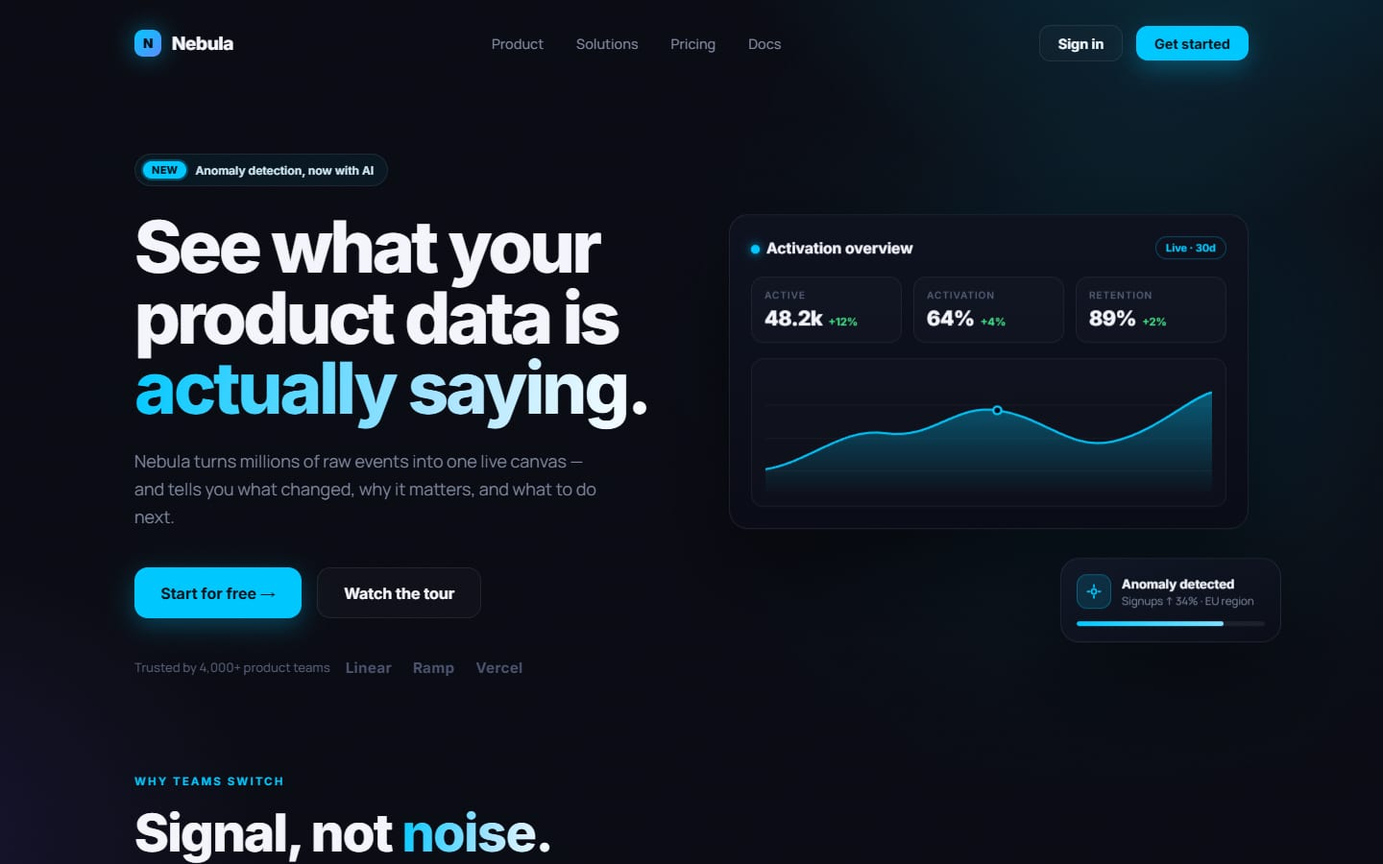
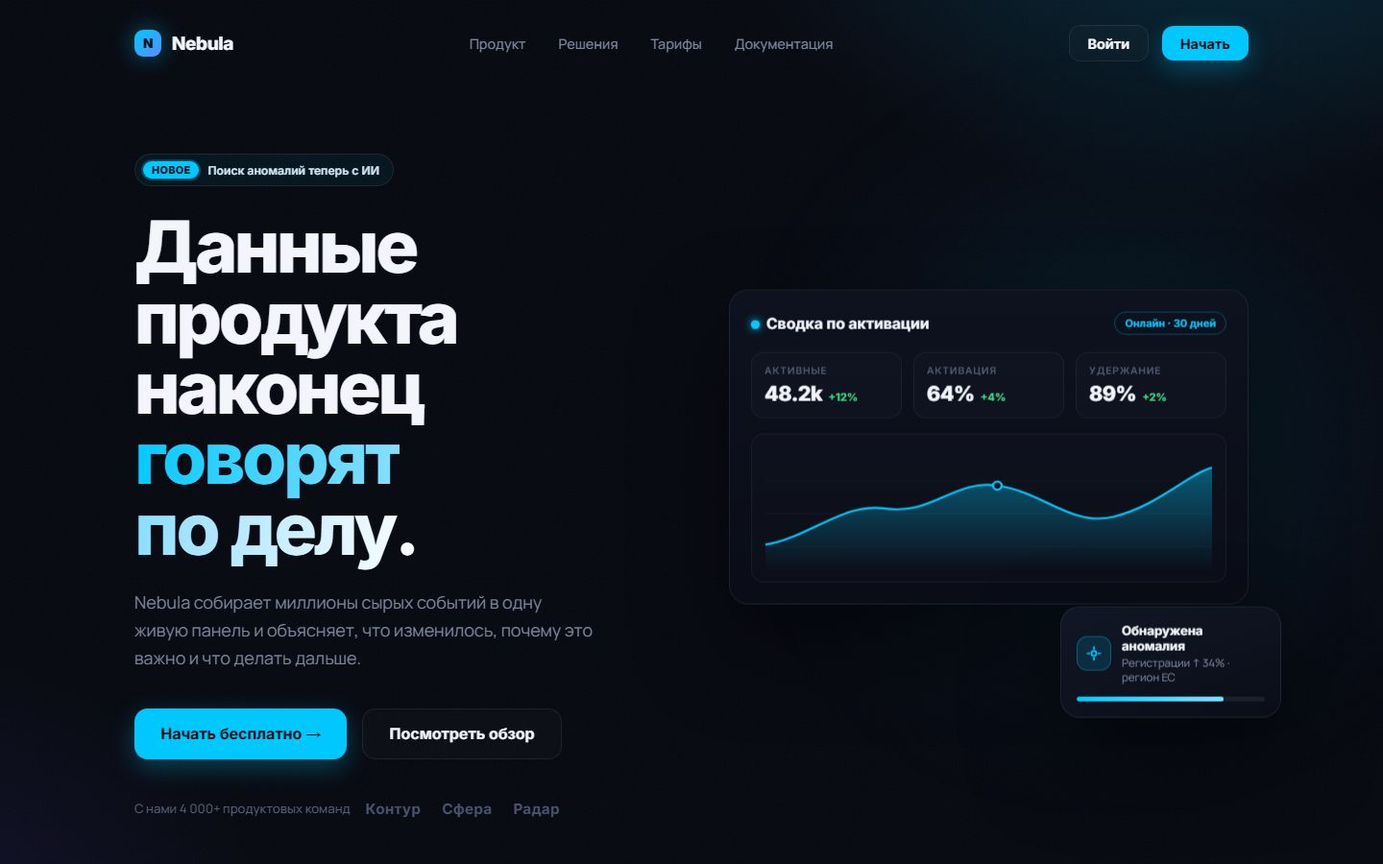
Витрина пересобрана: 17 работ, порядок «сначала реальный бизнес»
Серии «ходовые ниши» на витрине не было вообще. Добавлены Октан, Кедр, Фактура,
Верста, Remont.Krd, Полярис, Expense Flow и UI Motion; убран FilmGovernment —
TMDB режется в РФ по DNS, и клиент, кликнув по карточке, видел ошибку загрузки.

Порядок: локальный бизнес (7) → магазины и продукты (4) → флагманы и приложения (6).
Первый экран показывает семь разных отраслей вместо трёх тёмных абстрактных лендингов.

В стилях висели мёртвые классы превью от прежней версии витрины, а классы текущей
разметки не были описаны нигде: подложка теперь строится из акцента карточки.

Аудит LAUNCH-AUDIT: robots.txt, sitemap.xml, llms.txt, canonical и JSON-LD

По чеклисту эти пункты не были закрыты ни в одном проекте, кроме двух.
robots.txt осознанно пускает AI-краулеров (GPTBot, ClaudeBot, PerplexityBot,
OAI-SearchBot, Google-Extended) — цель попадать в ответы AI-поиска.

diff --git a/index.html b/index.html
@@ -28,6 +28,17 @@
   <link rel="stylesheet" href="css/style.css?v=fix-hover-1">
   <script src="js/main.js?v=fix-hover-1" defer></script>
   <title>Georgy | Frontend Developer Portfolio</title>
+<script type="application/ld+json">
+{
+  "@context": "https://schema.org",
+  "@type": "Person",
+  "name": "Georgy_Tech",
+  "description": "Портфолио фронтенд-разработчика: лендинги, многостраничные сайты, интернет-магазины и веб-приложения.",
+  "url": "https://georgy-itech.github.io/site-portfolio/",
+  "inLanguage": "ru-RU",
+  "jobTitle": "Frontend-разработчик"
+}
+</script>
 </head>
 
 <body>
@@ -96,7 +107,7 @@
 
             <ul class="hero__metrics" aria-label="Ключевые показатели">
               <li class="hero__metric">
-                <span class="hero__metric-value">14+</span>
+                <span class="hero__metric-value">17</span>
                 <span class="hero__metric-label">проектов в портфолио</span>
               </li>
               <li class="hero__metric">
@@ -222,9 +233,119 @@
         <p class="works__label">My works</p>
         <h2 class="works__title">Проекты, где дизайн и разработка работают вместе</h2>
         <div class="works__grid">
+          <a class="works__card" href="https://georgy-itech.github.io/oktan-auto/" target="_blank" rel="noopener noreferrer" style="--card-accent: #e5484d">
+            <div class="works__preview works__preview--oktan">
+              <img class="works__preview-img" src="images/works/oktan.jpg" width="1440" height="900" loading="lazy" decoding="async" alt="Октан — лендинг автосервиса">
+            </div>
+            <div class="works__card-content">
+              <h3 class="works__card-title">Октан</h3>
+              <p class="works__card-text">Лендинг автосервиса: калькулятор работ по марке и типу ремонта, блок сравнения «как обычно / как у нас», гарантийный талон и таймлайн приёмки.</p>
+              <span class="works__stack">HTML · CSS · Vanilla JS</span>
+            </div>
+          </a>
+          <a class="works__card" href="https://georgy-itech.github.io/kedr-dom/" target="_blank" rel="noopener noreferrer" style="--card-accent: #3f7d5c">
+            <div class="works__preview works__preview--kedr">
+              <img class="works__preview-img" src="images/works/kedr.jpg" width="1440" height="900" loading="lazy" decoding="async" alt="Кедр — строительство домов под ключ">
+            </div>
+            <div class="works__card-content">
+              <h3 class="works__card-title">Кедр</h3>
+              <p class="works__card-text">Строительство домов под ключ: каталог проектов с фильтрами, смета с разбивкой по разделам, ипотечный расчёт и график траншей оплаты.</p>
+              <span class="works__stack">HTML · CSS · Vanilla JS</span>
+            </div>
+          </a>
+          <a class="works__card" href="https://georgy-itech.github.io/faktura-kuhni/" target="_blank" rel="noopener noreferrer" style="--card-accent: #8b3a4a">
+            <div class="works__preview works__preview--faktura">
+              <img class="works__preview-img" src="images/works/faktura.jpg" width="1440" height="900" loading="lazy" decoding="async" alt="Фактура — кухни на заказ">
+            </div>
+            <div class="works__card-content">
+              <h3 class="works__card-title">Фактура</h3>
+              <p class="works__card-text">Кухни на заказ: многошаговый квиз с вилкой цены и возвратом к прошлым шагам, конфигуратор материалов со свотчами, шкала производства на 30 дней.</p>
+              <span class="works__stack">HTML · CSS · Vanilla JS</span>
+            </div>
+          </a>
+          <a class="works__card" href="https://georgy-itech.github.io/versta-cargo/" target="_blank" rel="noopener noreferrer" style="--card-accent: #1d4ed8">
+            <div class="works__preview works__preview--versta">
+              <img class="works__preview-img" src="images/works/versta.jpg" width="1440" height="900" loading="lazy" decoding="async" alt="Верста — грузоперевозки">
+            </div>
+            <div class="works__card-content">
+              <h3 class="works__card-title">Верста</h3>
+              <p class="works__card-text">Грузоперевозки: расчёт по отраслевому правилу «вес или объём — что больше» с объяснением, отслеживание по накладной, парк машин и схема маршрута.</p>
+              <span class="works__stack">HTML · CSS · Vanilla JS</span>
+            </div>
+          </a>
+          <a class="works__card" href="https://georgy-itech.github.io/appartment-recover/" target="_blank" rel="noopener noreferrer" style="--card-accent: #d96c3e">
+            <div class="works__preview works__preview--remont">
+              <img class="works__preview-img" src="images/works/remont.jpg" width="1440" height="900" loading="lazy" decoding="async" alt="Remont.Krd — ремонт квартир под ключ">
+            </div>
+            <div class="works__card-content">
+              <h3 class="works__card-title">Remont.Krd</h3>
+              <p class="works__card-text">Ремонт квартир под ключ: расчёт стоимости по площади и типу отделки, галерея объектов и заявка со сметой за сутки.</p>
+              <span class="works__stack">HTML · CSS · Vanilla JS</span>
+            </div>
+          </a>
+          <a class="works__card" href="https://georgy-itech.github.io/smilio-landing/" target="_blank" rel="noopener noreferrer" style="--card-accent: #4f9b8e">
+            <div class="works__preview works__preview--smilio">
+              <img class="works__preview-img" src="images/works/smilio.jpg" width="1440" height="900" loading="lazy" decoding="async" alt="Smilio — сайт стоматологии под ключ">
+            </div>
+            <div class="works__card-content">
+              <h3 class="works__card-title">Smilio</h3>
+              <p class="works__card-text">Сайт стоматологии под ключ: 4 страницы, форма записи с валидацией, кастомные UI-компоненты, карточки врачей и услуг.</p>
+              <span class="works__stack">HTML · CSS · Vanilla JS · Multi-page</span>
+            </div>
+          </a>
+          <a class="works__card" href="https://georgy-itech.github.io/fitness-trainer-landing/" target="_blank" rel="noopener noreferrer" style="--card-accent: #0a7c60">
+            <div class="works__preview works__preview--fitshift">
+              <img class="works__preview-img" src="images/works/fitshift.jpg" width="1440" height="900" loading="lazy" decoding="async" alt="FITSHIFT — лендинг персонального тренера">
+            </div>
+            <div class="works__card-content">
+              <h3 class="works__card-title">FITSHIFT</h3>
+              <p class="works__card-text">Лендинг персонального тренера: слайдер «до/после» с перетаскиванием, тарифы, FAQ-аккордеон и запись на консультацию.</p>
+              <span class="works__stack">HTML · CSS · Vanilla JS</span>
+            </div>
+          </a>
+          <a class="works__card" href="https://krema-coffee.vercel.app/" target="_blank" rel="noopener noreferrer" style="--card-accent: #c8863c">
+            <div class="works__preview works__preview--krema">
+              <img class="works__preview-img" src="images/works/krema.jpg" width="1440" height="900" loading="lazy" decoding="async" alt="КРЕМА — интернет-магазин спешелти-кофе">
+            </div>
+            <div class="works__card-content">
+              <h3 class="works__card-title">КРЕМА</h3>
+              <p class="works__card-text">Интернет-магазин спешелти-кофе: каталог с фильтрами в URL, варианты помола и веса, корзина и оформление заказа.</p>
+              <span class="works__stack">React · TypeScript · Vite · SCSS-модули</span>
+            </div>
+          </a>
+          <a class="works__card" href="https://georgy-itech.github.io/ecommerce-homepage-showcase/" target="_blank" rel="noopener noreferrer" style="--card-accent: #2f6fed">
+            <div class="works__preview works__preview--northstar">
+              <img class="works__preview-img" src="images/works/northstar.jpg" width="1440" height="900" loading="lazy" decoding="async" alt="Полярис — главная интернет-магазина одежды">
+            </div>
+            <div class="works__card-content">
+              <h3 class="works__card-title">Полярис</h3>
+              <p class="works__card-text">Главная интернет-магазина одежды: сетка товаров с бейджами, карточки категорий, hover-взаимодействия и аккуратный адаптив.</p>
+              <span class="works__stack">HTML · CSS · Vanilla JS</span>
+            </div>
+          </a>
+          <a class="works__card" href="https://georgy-itech.github.io/dofit-landing/" target="_blank" rel="noopener noreferrer" style="--card-accent: #c8f135">
+            <div class="works__preview works__preview--dofit">
+              <img class="works__preview-img" src="images/works/dofit.jpg" width="1440" height="900" loading="lazy" decoding="async" alt="DoFit — лендинг фитнес-приложения">
+            </div>
+            <div class="works__card-content">
+              <h3 class="works__card-title">DoFit</h3>
+              <p class="works__card-text">Лендинг фитнес-приложения: тёмный UI, SCSS-архитектура, переключатель темы и анимации появления блоков при скролле.</p>
+              <span class="works__stack">HTML · SCSS · Vanilla JS</span>
+            </div>
+          </a>
+          <a class="works__card" href="https://georgy-itech.github.io/designshift-landing/" target="_blank" rel="noopener noreferrer" style="--card-accent: #ff5c35">
+            <div class="works__preview works__preview--designshift">
+              <img class="works__preview-img" src="images/works/designshift.jpg" width="1440" height="900" loading="lazy" decoding="async" alt="DesignShift — лендинг курса по веб-дизайну">
+            </div>
+            <div class="works__card-content">
+              <h3 class="works__card-title">DesignShift</h3>
+              <p class="works__card-text">Лендинг курса по веб-дизайну: бегущая строка, форма записи с валидацией без alert, переключатель темы и scroll-reveal.</p>
+              <span class="works__stack">HTML · CSS · Vanilla JS</span>
+            </div>
+          </a>
           <a class="works__card" href="https://georgy-itech.github.io/sable-landing/" target="_blank" rel="noopener noreferrer" style="--card-accent: #6366f1">
             <div class="works__preview works__preview--sable">
-              <img class="works__preview-img" src="images/works/sable.jpg" width="1440" height="900" loading="lazy" decoding="async" alt="Sable — 3D-конфигуратор парфюма на React Three Fiber">
+              <img class="works__preview-img" src="images/works/sable.jpg" width="1440" height="900" loading="lazy" decoding="async" alt="Sable — 3d-конфигуратор парфюма">
             </div>
             <div class="works__card-content">
               <h3 class="works__card-title">Sable</h3>
@@ -234,7 +355,7 @@
           </a>
           <a class="works__card" href="https://georgy-itech.github.io/nodal-landing/" target="_blank" rel="noopener noreferrer" style="--card-accent: #00e5c3">
             <div class="works__preview works__preview--nodal">
-              <img class="works__preview-img" src="images/works/nodal.jpg" width="1440" height="900" loading="lazy" decoding="async" alt="Nodal — лендинг edge-сети с WebGL-констелляцией">
+              <img class="works__preview-img" src="images/works/nodal.jpg" width="1440" height="900" loading="lazy" decoding="async" alt="Nodal — констелляция на сыром webgl без библиотек">
             </div>
             <div class="works__card-content">
               <h3 class="works__card-title">Nodal</h3>
@@ -244,7 +365,7 @@
           </a>
           <a class="works__card" href="https://georgy-itech.github.io/aura-landing/" target="_blank" rel="noopener noreferrer" style="--card-accent: #ff2d78">
             <div class="works__preview works__preview--aura">
-              <img class="works__preview-img" src="images/works/aura.jpg" width="1440" height="900" loading="lazy" decoding="async" alt="Aura — лендинг AI-платформы с курсор-реактивным фоном">
+              <img class="works__preview-img" src="images/works/aura.jpg" width="1440" height="900" loading="lazy" decoding="async" alt="Aura — живой aurora-фон, реагирующий на курсор, и интерактивное демо продукта — поиск по документам команды с ответами и ссылками на источник.">
             </div>
             <div class="works__card-content">
               <h3 class="works__card-title">Aura</h3>
@@ -252,73 +373,33 @@
               <span class="works__stack">Vanilla JS · CSS-анимации · Интерактив</span>
             </div>
           </a>
-          <a class="works__card" href="https://krema-coffee.vercel.app/" target="_blank" rel="noopener noreferrer" style="--card-accent: #c8863c">
-            <div class="works__preview works__preview--krema">
-              <img class="works__preview-img" src="images/works/krema.jpg" width="1440" height="900" loading="lazy" decoding="async" alt="КРЕМА — интернет-магазин спешелти-кофе на React">
-            </div>
-            <div class="works__card-content">
-              <h3 class="works__card-title">КРЕМА</h3>
-              <p class="works__card-text">Интернет-магазин спешелти-кофе: каталог с фильтрами в URL, варианты помола и веса, корзина и оформление заказа.</p>
-              <span class="works__stack">React · TypeScript · Vite · SCSS-модули</span>
-            </div>
-          </a>
-          <a class="works__card" href="https://georgy-itech.github.io/smilio-landing/" target="_blank" rel="noopener noreferrer" style="--card-accent: #4f9b8e">
-            <div class="works__preview works__preview--smilio">
-              <img class="works__preview-img" src="images/works/smilio.jpg" width="1440" height="900" loading="lazy" decoding="async" alt="Smilio — многостраничный сайт стоматологии">
-            </div>
-            <div class="works__card-content">
-              <h3 class="works__card-title">Smilio</h3>
-              <p class="works__card-text">Сайт стоматологии под ключ: 4 страницы, форма записи с валидацией, кастомные UI-компоненты, карточки врачей и услуг.</p>
-              <span class="works__stack">Vanilla JS · Multi-page · Формы</span>
-            </div>
-          </a>
           <a class="works__card" href="https://georgy-itech.github.io/bento-landing/" target="_blank" rel="noopener noreferrer" style="--card-accent: #00c8ff">
             <div class="works__preview works__preview--bento">
-              <img class="works__preview-img" src="images/works/bento.jpg" width="1440" height="900" loading="lazy" decoding="async" alt="Nebula — премиальный bento-лендинг">
+              <img class="works__preview-img" src="images/works/bento.jpg" width="1440" height="900" loading="lazy" decoding="async" alt="Nebula — тёмный премиальный bento-лендинг аналитики">
             </div>
             <div class="works__card-content">
               <h3 class="works__card-title">Nebula</h3>
-              <p class="works__card-text">Тёмный премиальный bento-лендинг: асимметричная сетка, cursor-spotlight, счётчики, график и параллакс.</p>
-              <span class="works__stack">Vanilla JS · Bento-grid · Анимации</span>
+              <p class="works__card-text">Тёмный премиальный bento-лендинг аналитики: асимметричная сетка, cursor-spotlight, счётчики, живой график и параллакс.</p>
+              <span class="works__stack">HTML · CSS · Vanilla JS</span>
             </div>
           </a>
-          <a class="works__card" href="https://georgy-itech.github.io/filmgovernment/" target="_blank" rel="noopener noreferrer" style="--card-accent: #f5c842">
-            <div class="works__preview works__preview--film">
-              <img class="works__preview-img" src="images/works/filmgovernment.jpg" width="1440" height="900" loading="lazy" decoding="async" alt="FilmGovernment — поиск фильмов через TMDB API">
+          <a class="works__card" href="https://georgy-itech.github.io/expense-tracker/" target="_blank" rel="noopener noreferrer" style="--card-accent: #9b6dff">
+            <div class="works__preview works__preview--expense-tracker">
+              <img class="works__preview-img" src="images/works/expense-tracker.jpg" width="1440" height="900" loading="lazy" decoding="async" alt="Expense Flow — веб-приложение учёта финансов">
             </div>
             <div class="works__card-content">
-              <h3 class="works__card-title">FilmGovernment</h3>
-              <p class="works__card-text">Поиск фильмов через TMDB API — трендовые, трейлеры, избранное, RU/EN, бесконечная прокрутка.</p>
-              <span class="works__stack">Vanilla JS · REST API · Multi-page</span>
+              <h3 class="works__card-title">Expense Flow</h3>
+              <p class="works__card-text">Веб-приложение учёта финансов: доходы и расходы по категориям, фильтры и сортировка с сохранением, баланс и разбор трат.</p>
+              <span class="works__stack">Vanilla JS · localStorage</span>
             </div>
           </a>
-          <a class="works__card" href="https://georgy-itech.github.io/dofit-landing/" target="_blank" rel="noopener noreferrer" style="--card-accent: #c8f135">
-            <div class="works__preview works__preview--dofit">
-              <img class="works__preview-img" src="images/works/dofit.jpg" width="1440" height="900" loading="lazy" decoding="async" alt="DoFit Landing — лендинг фитнес-приложения">
+          <a class="works__card" href="https://georgy-itech.github.io/ui-animation-showcase/" target="_blank" rel="noopener noreferrer" style="--card-accent: #2955f5">
+            <div class="works__preview works__preview--ui-animation">
+              <img class="works__preview-img" src="images/works/ui-animation.jpg" width="1440" height="900" loading="lazy" decoding="async" alt="UI Motion — витрина интерфейсных анимаций">
             </div>
             <div class="works__card-content">
-              <h3 class="works__card-title">DoFit Landing</h3>
-              <p class="works__card-text">Лендинг фитнес-приложения — тёмный UI, SCSS-архитектура, тема, анимации при скролле.</p>
-              <span class="works__stack">HTML · SCSS · Vanilla JS</span>
-            </div>
-          </a>
-          <a class="works__card" href="https://georgy-itech.github.io/designshift-landing/" target="_blank" rel="noopener noreferrer" style="--card-accent: #ff5c35">
-            <div class="works__preview works__preview--design">
-              <img class="works__preview-img" src="images/works/designshift.jpg" width="1440" height="900" loading="lazy" decoding="async" alt="DesignShift Landing — лендинг курса по веб-дизайну">
-            </div>
-            <div class="works__card-content">
-              <h3 class="works__card-title">DesignShift Landing</h3>
-              <p class="works__card-text">Лендинг курса по веб-дизайну — бегущая строка, валидация формы, тема, scroll-reveal.</p>
-              <span class="works__stack">HTML · Pure CSS · Vanilla JS</span>
-            </div>
-          </a>
-          <a class="works__card" href="https://georgy-itech.github.io/fitness-trainer-landing/" target="_blank" rel="noopener noreferrer" style="--card-accent: #0a7c60">
-            <div class="works__preview works__preview--fitness">
-              <img class="works__preview-img" src="images/works/fitshift.jpg" width="1440" height="900" loading="lazy" decoding="async" alt="FITSHIFT — лендинг персонального тренера">
-            </div>
-            <div class="works__card-content">
-              <h3 class="works__card-title">FITSHIFT</h3>
-              <p class="works__card-text">Лендинг персонального тренера — слайдер до/после, FAQ, тарифы, scroll-reveal.</p>
+              <h3 class="works__card-title">UI Motion</h3>
+              <p class="works__card-text">Витрина интерфейсных анимаций: scroll-reveal, hover-эффекты, счётчики, магнитная кнопка, аккордеон и модальное окно — всё на чистом CSS и JS.</p>
               <span class="works__stack">HTML · CSS · Vanilla JS</span>
             </div>
           </a>

diff --git a/css/style.css b/css/style.css
@@ -1173,6 +1173,7 @@ body.menu-open .header__menu-line:nth-child(3) {
   height: 170px;
   background-size: 180% 180%;
   animation: gradient-shift 7s ease infinite;
+  background-image: linear-gradient(130deg, rgba(0, 0, 0, 0.72), var(--card-accent, #0aa6b8));
 }
 .works__preview::after {
   content: "Открыть проект";
@@ -1188,33 +1189,6 @@ body.menu-open .header__menu-line:nth-child(3) {
   letter-spacing: 0.03em;
   opacity: 0;
   transition: opacity 0.25s ease;
-}
-.works__preview--commerce {
-  background-image: linear-gradient(130deg, #0f172a, #1f8a9a, #80d6e3);
-}
-.works__preview--agency {
-  background-image: linear-gradient(130deg, #1e1b4b, #f97316, #fed7aa);
-}
-.works__preview--startup {
-  background-image: linear-gradient(130deg, #083344, #0891b2, #67e8f9);
-}
-.works__preview--film {
-  background-image: linear-gradient(130deg, #0d0a0a, #b8860b, #f5c842);
-}
-.works__preview--dofit {
-  background-image: linear-gradient(130deg, #0a1a0a, #4a7c2f, #c8f135);
-}
-.works__preview--design {
-  background-image: linear-gradient(130deg, #1a0a05, #cc3a1a, #ff5c35);
-}
-.works__preview--expense {
-  background-image: linear-gradient(130deg, #0d0714, #5a2fb8, #9b6dff);
-}
-.works__preview--fitness {
-  background-image: linear-gradient(130deg, #051a12, #0a7c60, #2ecc8a);
-}
-.works__preview--animation {
-  background-image: linear-gradient(130deg, #050d2a, #1a3bbf, #2955f5);
 }
 .works__preview-img {
   width: 100%;
@@ -1427,6 +1401,9 @@ body.menu-open .header__menu-line:nth-child(3) {
   font-size: 14px;
 }
 .footer__top-link {
+  display: inline-flex;
+  align-items: center;
+  min-height: 24px;
   font-weight: 600;
   color: var(--color-navy);
 }

diff --git a/scss/blocks/_works.scss b/scss/blocks/_works.scss
@@ -61,6 +61,9 @@
     height: 170px;
     background-size: 180% 180%;
     animation: gradient-shift 7s ease infinite;
+    // Подложка видна, пока грузится превью: строится из акцента карточки,
+    // поэтому отдельный класс на каждый проект не нужен
+    background-image: linear-gradient(130deg, rgba(0, 0, 0, 0.72), var(--card-accent, #0aa6b8));
 
     &::after {
       content: 'Открыть проект';
@@ -78,41 +81,6 @@
       transition: opacity 0.25s ease;
     }
 
-    &--commerce {
-      background-image: linear-gradient(130deg, #0f172a, #1f8a9a, #80d6e3);
-    }
-
-    &--agency {
-      background-image: linear-gradient(130deg, #1e1b4b, #f97316, #fed7aa);
-    }
-
-    &--startup {
-      background-image: linear-gradient(130deg, #083344, #0891b2, #67e8f9);
-    }
-
-    &--film {
-      background-image: linear-gradient(130deg, #0d0a0a, #b8860b, #f5c842);
-    }
-
-    &--dofit {
-      background-image: linear-gradient(130deg, #0a1a0a, #4a7c2f, #c8f135);
-    }
-
-    &--design {
-      background-image: linear-gradient(130deg, #1a0a05, #cc3a1a, #ff5c35);
-    }
-
-    &--expense {
-      background-image: linear-gradient(130deg, #0d0714, #5a2fb8, #9b6dff);
-    }
-
-    &--fitness {
-      background-image: linear-gradient(130deg, #051a12, #0a7c60, #2ecc8a);
-    }
-
-    &--animation {
-      background-image: linear-gradient(130deg, #050d2a, #1a3bbf, #2955f5);
-    }
   }
 
   &__preview-img {

diff --git a/scss/blocks/_footer.scss b/scss/blocks/_footer.scss
@@ -23,6 +23,9 @@
   }
 
   &__top-link {
+      display: inline-flex;
+      align-items: center;
+      min-height: 24px;
     font-weight: 600;
     color: var(--color-navy);
 
